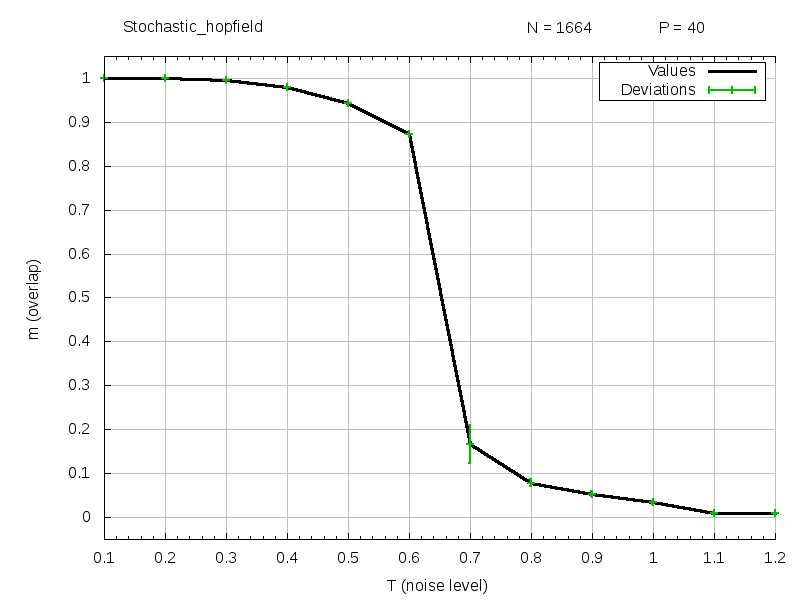
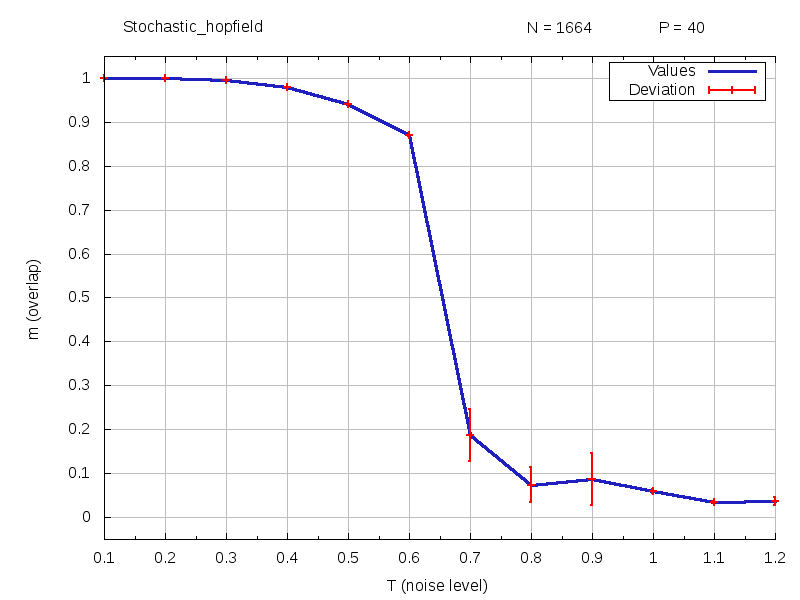
Subiendo los nuevos resultados para el caso estocástico y borrando los viejos. Ahora respetamos el α: para cada N usamos un P que mantenga la proporción P/N con respecto a los otros N

diff --git a/redes_neuronales/hopfield/Hopfield_estocastico.c b/redes_neuronales/hopfield/Hopfield_estocastico.c
@@ -207,7 +207,6 @@ int main (int argc, char **argv)
 	
 	for (T = Thop ; T <= Tmax ; T += Thop) {
 		
-		fprintf (stderr, "\rLoop T = %.1f", T);
 		reset_media_m ();
 		reset_var_m ();
 		nu = 0;
